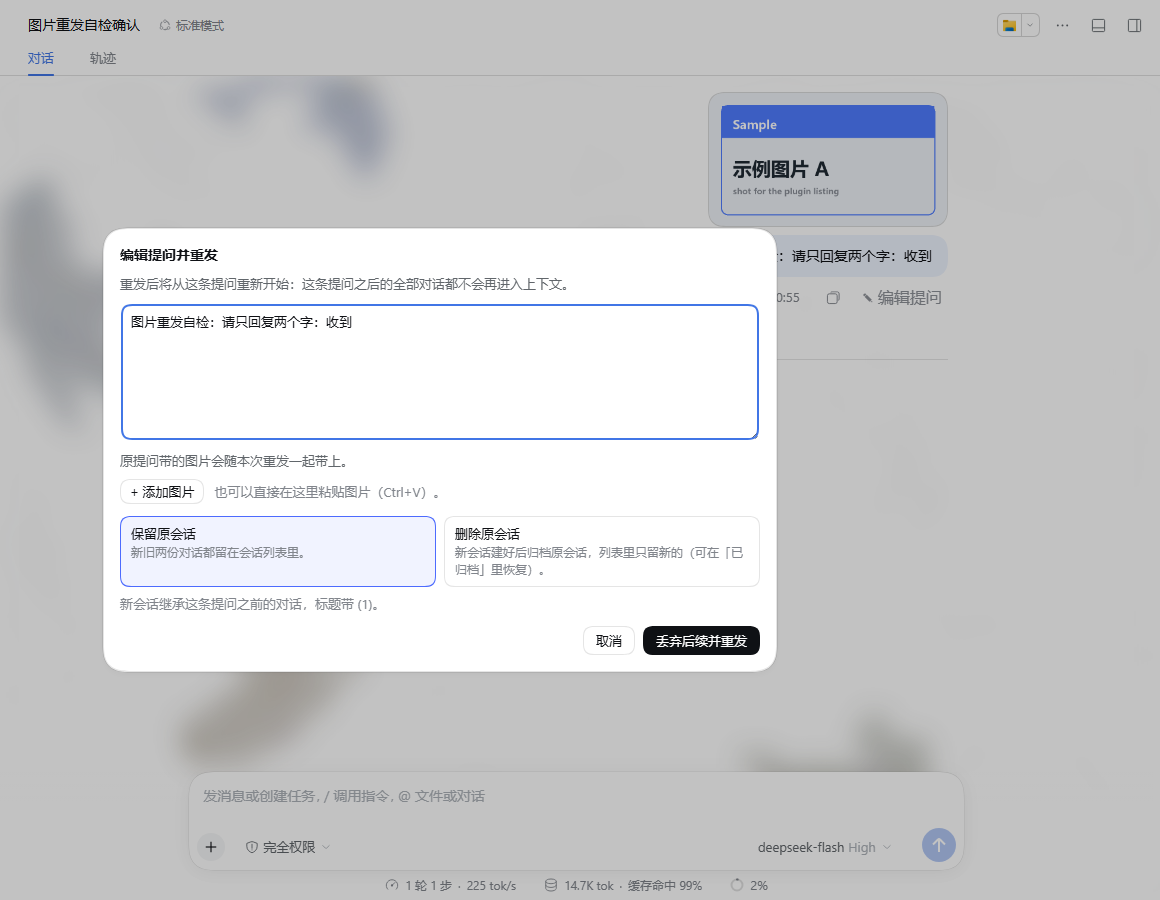
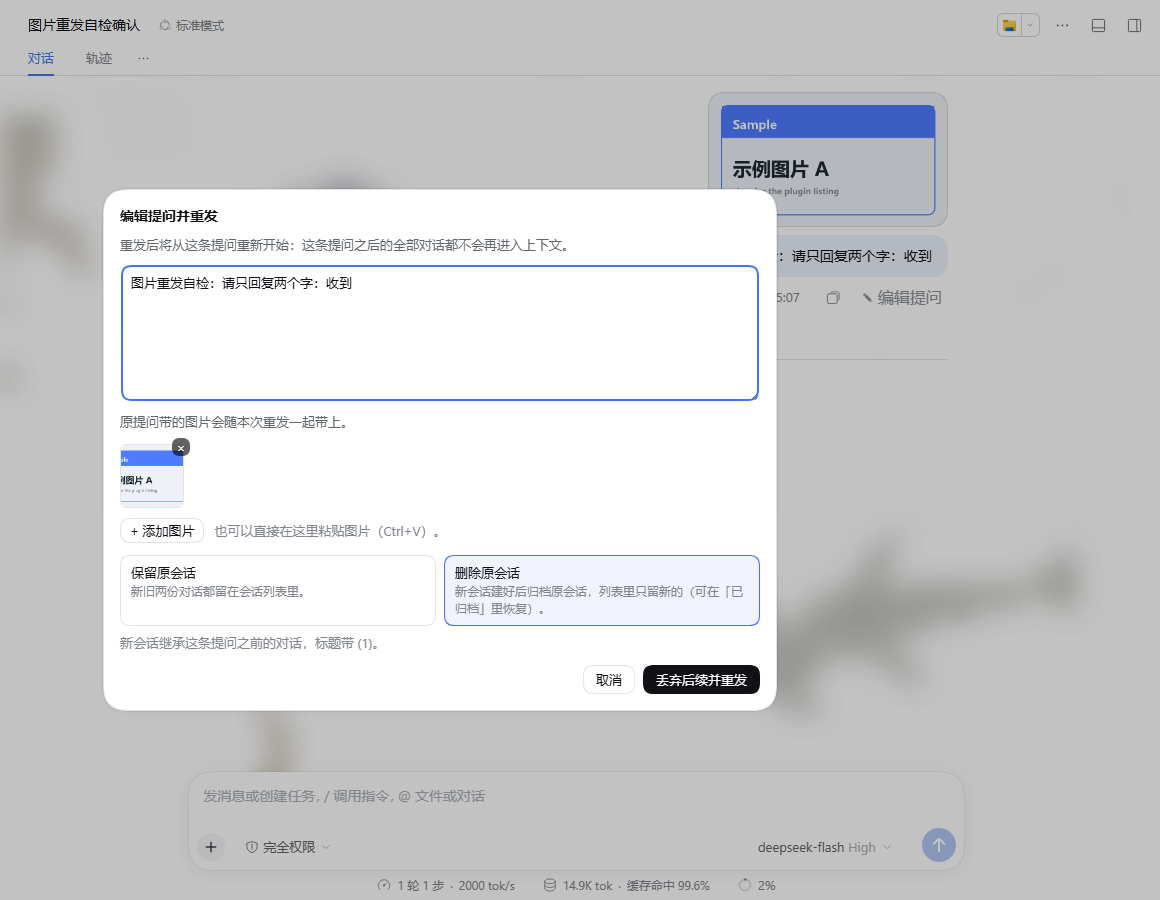
feat: preview and prune original images, archive by default

diff --git a/lib/client.js b/lib/client.js
@@ -109,8 +109,8 @@ window.__ModuleLoader__.load({
       extraImages: EMPTY_IMAGES,
       /** 原提问里是否有无法重发的 file 分片。 */
       files: false,
-      /** 是否在重发成功后归档原会话。 */
-      removeOriginal: false,
+      /** 是否在重发成功后归档原会话（默认归档，可切回保留）。 */
+      removeOriginal: true,
     });
 
     /**
@@ -305,6 +305,42 @@ window.__ModuleLoader__.load({
       const patch = (fields) => {
         store.set({ ...store.getSnapshot(), ...fields });
       };
+      /**
+       * 预读原提问里的图片，转成 data URL 供对话框显示缩略图。
+       * 单张读失败时留空（仍可删除），不影响其余图片。
+       * @param images - 原图引用列表。
+       * @param userSeq - 打开时的用户消息 seq，用于丢弃过期回调。
+       */
+      async function loadOriginalPreviews(images, userSeq) {
+        try {
+          const previews = await ctx.sessions.using(sessionId, { source: "edit-question" }, async (reference) => {
+            const binding = await reference.ready;
+            const out = [];
+            for (const image of images) {
+              try {
+                const result = await binding.session.readAttachment(image.attachmentId);
+                if (result.ok !== true) {
+                  out.push(null);
+                  continue;
+                }
+                const mediaType = typeof image.mediaType === "string" ? image.mediaType : "image/png";
+                out.push(`data:${mediaType};base64,${base64Of(result.value.data)}`);
+              } catch (error) {
+                console.warn("[dsh-edit-question] preview read failed:", image.attachmentId, error);
+                out.push(null);
+              }
+            }
+            return out;
+          });
+          const snapshot = store.getSnapshot();
+          if (!snapshot.open || snapshot.userSeq !== userSeq) return;
+          patch({
+            images: snapshot.images.map((image, index) => (typeof previews[index] === "string" ? { ...image, preview: previews[index] } : image)),
+          });
+        } catch (error) {
+          console.warn("[dsh-edit-question] preview load failed:", error);
+        }
+      }
       return {
         store,
         /**
@@ -312,6 +348,7 @@ window.__ModuleLoader__.load({
          * @param input - 目标提问：切点 seq、用户消息 seq、原文、图片引用、是否含文件回执。
          */
         open(input) {
+          const images = Array.isArray(input.images) ? input.images : [];
           store.set({
             open: true,
             text: input.text,
@@ -319,11 +356,13 @@ window.__ModuleLoader__.load({
             error: null,
             atSeq: input.atSeq,
             userSeq: input.userSeq,
-            images: Array.isArray(input.images) ? input.images : [],
+            images,
             extraImages: EMPTY_IMAGES,
             files: input.files === true,
-            removeOriginal: false,
+            removeOriginal: true,
           });
+          // 缩略图必须读回字节才能显示；attachment 只对原会话授权，所以在这里读。
+          if (images.length > 0) void loadOriginalPreviews(images, input.userSeq);
         },
         /** 关闭编辑器并丢弃草稿。 */
         dismiss() {
@@ -353,6 +392,14 @@ window.__ModuleLoader__.load({
         removeImage(index) {
           const current = store.getSnapshot().extraImages;
           patch({ extraImages: current.filter((_, position) => position !== index) });
+        },
+        /**
+         * 从原图里移除一张：重发时不再带上它。
+         * @param index - 原图列表下标。
+         */
+        removeOriginalImage(index) {
+          const current = store.getSnapshot().images;
+          patch({ images: current.filter((_, position) => position !== index) });
         },
         /**
          * 选择重发后是否归档原会话。
@@ -638,18 +685,29 @@ window.__ModuleLoader__.load({
      */
     function ExtraImage(props) {
       const { image, onRemove, label } = props;
-      return h("div", { style: { position: "relative", width: "64px", height: "64px" } },
-        h("img", {
-          src: image.preview,
-          alt: image.name,
+      const frame = {
+        width: "100%",
+        height: "100%",
+        objectFit: "cover",
+        borderRadius: "var(--dsw-radius-sm, 6px)",
+        border: "1px solid var(--dsw-alias-border-l2, rgba(0, 0, 0, .12))",
+        boxSizing: "border-box",
+      };
+      // 原图的缩略图要异步读回来，未就绪时先占位，避免出现破图。
+      const thumb = typeof image.preview === "string"
+        ? h("img", { src: image.preview, alt: image.name, style: frame })
+        : h("div", {
           style: {
-            width: "100%",
-            height: "100%",
-            objectFit: "cover",
-            borderRadius: "var(--dsw-radius-sm, 6px)",
-            border: "1px solid var(--dsw-alias-border-l2, rgba(0, 0, 0, .12))",
+            ...frame,
+            borderStyle: "dashed",
+            display: "grid",
+            placeItems: "center",
+            color: "var(--dsw-alias-label-tertiary, #8a8f98)",
+            fontSize: "12px",
           },
-        }),
+        }, "…");
+      return h("div", { style: { position: "relative", width: "64px", height: "64px" } },
+        thumb,
         h("button", {
           type: "button",
           "aria-label": label,
@@ -680,7 +738,7 @@ window.__ModuleLoader__.load({
      * @returns 打开时的全屏对话框，否则 null。
      */
     function EditQuestionDialog(props) {
-      const { useEditor, editDraft, submitDraft, dismissEditor, setRemoveOriginal, addImages, removeImage, archiveAvailable, t } = props;
+      const { useEditor, editDraft, submitDraft, dismissEditor, setRemoveOriginal, addImages, removeImage, removeOriginalImage, archiveAvailable, t } = props;
       const state = useEditor((snapshot) => snapshot);
       const area = react.useRef(null);
       const picker = react.useRef(null);
@@ -779,16 +837,25 @@ window.__ModuleLoader__.load({
           onChange: (event) => { editDraft(event.target.value); },
           onPaste,
         }),
-        state.images.length > 0 ? h("div", { style: { marginTop: "8px", color: "var(--dsw-alias-label-secondary, #5c6068)" } }, t("dialog.images")) : null,
-        state.files ? h("div", { style: { marginTop: "8px", color: "var(--dsw-alias-state-warn-label, #b7791f)" } }, t("dialog.files")) : null,
-        state.extraImages.length > 0 ? h("div", { style: { display: "flex", flexWrap: "wrap", gap: "10px", marginTop: "10px" } },
-          state.extraImages.map((image, index) => h(ExtraImage, {
-            key: `${index}:${image.name}`,
-            image,
-            label: t("dialog.removeImage"),
-            onRemove: () => { removeImage(index); },
-          })),
+        state.images.length > 0 || state.extraImages.length > 0 ? h("div", { style: { marginTop: "8px" } },
+          state.images.length > 0 ? h("div", { style: { color: "var(--dsw-alias-label-secondary, #5c6068)" } }, t("dialog.images")) : null,
+          // 原图与补充图排在同一条带上，删除各自落到对应的列表。
+          h("div", { style: { display: "flex", flexWrap: "wrap", gap: "10px", marginTop: "10px", paddingTop: "4px" } },
+            state.images.map((image, index) => h(ExtraImage, {
+              key: `original:${index}:${image.attachmentId}`,
+              image,
+              label: t("dialog.removeImage"),
+              onRemove: () => { removeOriginalImage(index); },
+            })),
+            state.extraImages.map((image, index) => h(ExtraImage, {
+              key: `extra:${index}:${image.name}`,
+              image,
+              label: t("dialog.removeImage"),
+              onRemove: () => { removeImage(index); },
+            })),
+          ),
         ) : null,
+        state.files ? h("div", { style: { marginTop: "8px", color: "var(--dsw-alias-state-warn-label, #b7791f)" } }, t("dialog.files")) : null,
         h("div", { style: { display: "flex", alignItems: "center", gap: "10px", marginTop: "10px" } },
           h("button", {
             type: "button",
@@ -813,14 +880,14 @@ window.__ModuleLoader__.load({
         imageNotice === null ? null : h("div", { style: { marginTop: "6px", color: "var(--dsw-alias-state-warn-label, #b7791f)" } }, imageNotice),
         h("div", { style: { display: "flex", gap: "8px", marginTop: "12px" } },
           h(OptionCard, {
-            selected: state.removeOriginal !== true,
+            selected: !archiveAvailable || state.removeOriginal !== true,
             label: t("dialog.keep"),
             hint: t("dialog.keepHint"),
             disabled: state.busy,
             onSelect: () => { setRemoveOriginal(false); },
           }),
           h(OptionCard, {
-            selected: state.removeOriginal === true,
+            selected: archiveAvailable && state.removeOriginal === true,
             label: t("dialog.remove"),
             hint: t("dialog.removeHint"),
             disabled: state.busy || !archiveAvailable,
@@ -902,6 +969,7 @@ window.__ModuleLoader__.load({
             setRemoveOriginal: (value) => { editor.setRemoveOriginal(value); },
             addImages: (images) => { editor.addImages(images); },
             removeImage: (index) => { editor.removeImage(index); },
+            removeOriginalImage: (index) => { editor.removeOriginalImage(index); },
             archiveAvailable: typeof ctx.uiWorkspace.archiveSession === "function",
           };
         },

diff --git a/tools/verify-remove-image.py b/tools/verify-remove-image.py
@@ -1,0 +1,151 @@
+"""回归验证：在编辑对话框里删掉原图后，重发的新会话不再带这张图。
+
+这条路径容易只改到 UI 而漏掉提交逻辑，所以单独验：
+    1. 新建会话，上传一张图并提问；
+    2. 打开「编辑提问」，确认原图缩略图出现；
+    3. 点掉那张缩略图的 ×，确认缩略图消失；
+    4. 提交，检查新会话的首条用户消息里图片数为 0。
+
+用法：
+    python verify-remove-image.py [base]
+"""
+
+import subprocess
+import sys
+import time
+from pathlib import Path
+
+from playwright.sync_api import sync_playwright
+
+HERE = Path(__file__).resolve().parent
+ROOT = HERE.parent
+NODE = r"D:\deepseekH\resources\runtime\primary-runtime\dependencies\node\bin\node.exe"
+BASE = "http://127.0.0.1:63246/"
+for arg in sys.argv[1:]:
+    if arg.startswith("http"):
+        BASE = arg
+AUTHORITY = BASE.split("//", 1)[1].rstrip("/")
+SHOTS = ROOT / "shots"
+IMAGE = SHOTS / "sample-image.png"
+TEXT = "删除原图回归：请只回复两个字：收到"
+
+
+def cookie_pair():
+    out = subprocess.run(
+        [NODE, str(HERE / "auth-cookie.mjs"), AUTHORITY], capture_output=True, text=True, check=True
+    ).stdout.strip()
+    return out.split("=", 1)
+
+
+def boot(page) -> None:
+    page.goto(BASE, wait_until="domcontentloaded")
+    page.wait_for_selector("[contenteditable=true], textarea", timeout=90000)
+    page.wait_for_timeout(3000)
+    modal = page.query_selector("div[role=presentation]")
+    if modal is not None:
+        page.keyboard.press("Escape")
+        page.wait_for_timeout(800)
+
+
+def edit_buttons(page):
+    return [b for b in page.query_selector_all("button") if "编辑提问" in (b.inner_text() or "")]
+
+
+def wait_completed(page, turns: int, timeout: int = 240000) -> bool:
+    deadline = time.time() + timeout / 1000
+    while time.time() < deadline:
+        text = page.evaluate("() => document.body.innerText || ''")
+        if f"{turns} 轮" in text and len(edit_buttons(page)) >= turns:
+            return True
+        page.wait_for_timeout(2000)
+    return False
+
+
+def new_session(page) -> None:
+    for element in page.query_selector_all("button"):
+        if "新会话" in (element.inner_text() or ""):
+            element.click()
+            page.wait_for_timeout(1500)
+            return
+    raise RuntimeError("新会话 button not found")
+
+
+def thumbs(page) -> int:
+    return page.evaluate("""() => document.querySelectorAll('div[role=dialog] img[src^="data:"]').length""")
+
+
+def main() -> None:
+    name, value = cookie_pair()
+    failures: list[str] = []
+    with sync_playwright() as p:
+        browser = p.chromium.launch(headless=True)
+        ctx = browser.new_context(viewport={"width": 1440, "height": 900})
+        ctx.add_cookies([{"name": name, "value": value, "domain": "127.0.0.1", "path": "/"}])
+        page = ctx.new_page()
+        errors: list[str] = []
+        page.on("pageerror", lambda err: errors.append(str(err)))
+        boot(page)
+        new_session(page)
+        page.set_input_files("input[type=file]", str(IMAGE))
+        page.wait_for_timeout(2000)
+        composer = page.wait_for_selector("[contenteditable=true]", timeout=30000)
+        composer.click()
+        page.keyboard.type(TEXT)
+        page.wait_for_timeout(300)
+        page.keyboard.press("Enter")
+        print(f"1) turn completed: {wait_completed(page, 1)}")
+        sent = page.evaluate("""() => document.querySelectorAll('[data-chat-flow-kind="user"] img').length""")
+        print(f"   images in the sent message: {sent}")
+        if sent < 1:
+            failures.append("uploaded image did not land in the message")
+
+        button = edit_buttons(page)[-1]
+        button.scroll_into_view_if_needed()
+        button.hover()
+        page.wait_for_timeout(300)
+        button.click()
+        page.wait_for_selector("div[role=dialog]", timeout=15000)
+        page.wait_for_timeout(1200)
+        before = thumbs(page)
+        print(f"2) original thumbnails shown: {before}")
+        if before != 1:
+            failures.append(f"expected 1 original thumbnail, got {before}")
+
+        page.screenshot(path=str(SHOTS / "verify-remove-before.png"))
+        # 缩略图右上角的移除按钮
+        remove_buttons = page.query_selector_all("div[role=dialog] button[aria-label='移除这张图片']")
+        print(f"   remove buttons: {len(remove_buttons)}")
+        if not remove_buttons:
+            failures.append("remove button not found")
+        else:
+            remove_buttons[0].click()
+            page.wait_for_timeout(600)
+        after = thumbs(page)
+        print(f"3) thumbnails after removing: {after}")
+        if after != 0:
+            failures.append(f"thumbnail still present after removal: {after}")
+        page.screenshot(path=str(SHOTS / "verify-remove-after.png"))
+
+        dialog = page.query_selector("div[role=dialog]")
+        for element in dialog.query_selector_all("button"):
+            if "丢弃后续并重发" in (element.inner_text() or ""):
+                element.click()
+                break
+        page.wait_for_timeout(20000)
+        resent = page.evaluate("""() => document.querySelectorAll('[data-chat-flow-kind="user"] img').length""")
+        print(f"4) images in the resent message: {resent}")
+        if resent != 0:
+            failures.append(f"removed image was resent anyway: {resent}")
+
+        print("--- page errors ---")
+        for line in errors:
+            print(line)
+        browser.close()
+
+    print("RESULT:", "PASS" if not failures else "FAIL")
+    for item in failures:
+        print(" -", item)
+
+
+if __name__ == "__main__":
+    main()

diff --git a/README.md b/README.md
@@ -3,8 +3,8 @@
 在 DeepSeek Harness Web GUI 的每条用户提问旁加一个「✎ 编辑提问」入口：改完原文后从这条提问重新开始，
 该提问之后的对话不再进入新会话的上下文，界面直接切到新会话。
 
-- **图片兼容**：原提问里的图片会随重发一起带上（内容寻址复用同一个附件，不重复占空间）；也可以在编辑框里**直接粘贴补充图片**。
-- **两个出口**：对话框里二选一——保留原会话（新旧并存）或删除原会话（新会话建好后归档原会话，列表里只留新的）。
+- **图片兼容**：原提问里的图片会随重发一起带上（内容寻址复用同一个附件，不重复占空间），在对话框里逐张预览、可单独删掉不想重发的那张；也可以在编辑框里**直接粘贴补充图片**。
+- **两个出口**：对话框里二选一——保留原会话（新旧并存）或删除原会话（新会话建好后归档原会话，列表里只留新的）。**默认选中「删除原会话」**，需要留档时手动切回保留。
 
 ![编辑提问对话框](https://raw.githubusercontent.com/Akiccat/dsh-edit-question/main/shots/e2e-image-03-dialog.png)
 
@@ -53,7 +53,7 @@ New-Item -ItemType Junction -Path "$HOME\.dsh\profiles\desktop\node_modules\dsh-
 
 1. 把鼠标移到任意一轮的提问气泡上，动作行里点「✎ 编辑提问」；
 2. 修改文本，可选：粘贴图片补充、或删掉已补的图；
-3. 选择「保留原会话」或「删除原会话」；
+3. 确认「保留原会话」或「删除原会话」（默认删除）；
 4. 点「丢弃后续并重发」，界面切换到新会话。
 
 ![在原会话上打开编辑器：原文、原图提示、两个出口](https://raw.githubusercontent.com/Akiccat/dsh-edit-question/main/shots/e2e-paste-01-dialog.png)
